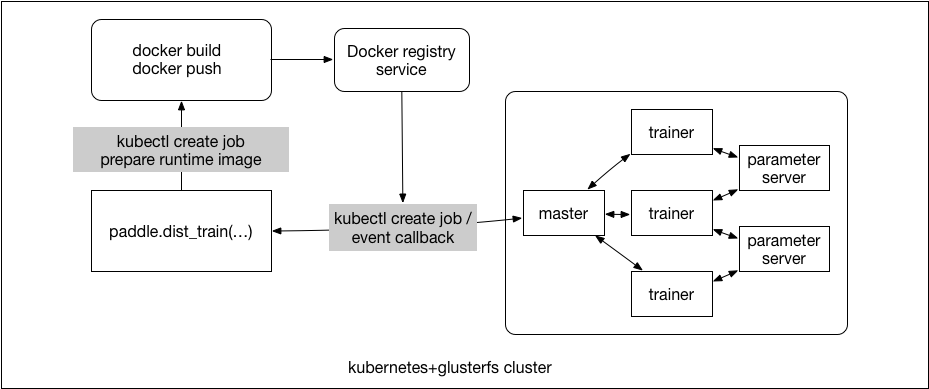
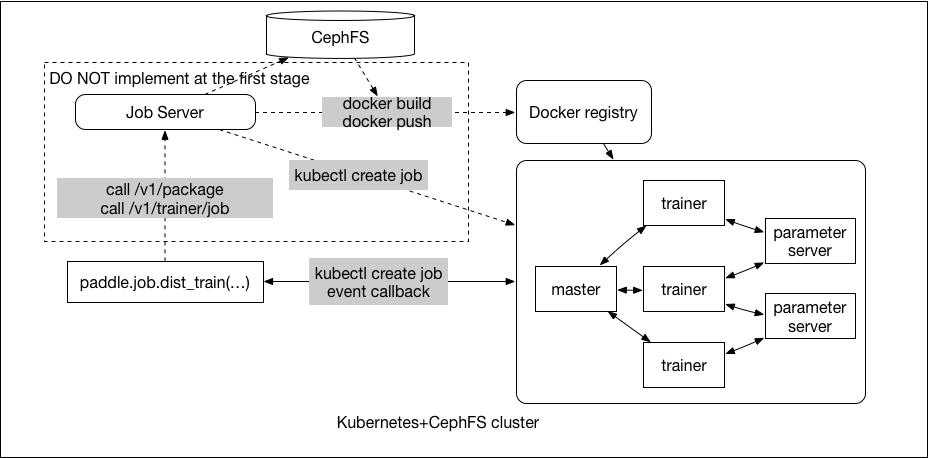
update

diff --git a/doc/design/cluster_train/submit-job.md b/doc/design/cluster_train/submit-job.md
@@ -15,7 +15,7 @@ For a distributed training job, there is two Docker image called *runtime Docker
 
 - Runtime Docker Image
 
-  The trainer package which user upload and some Python dependencies are packaged into a runtime Docker image based on base Docker image
+  The trainer package which user upload and some Python dependencies are packaged into a runtime Docker image based on base Docker image.
 
 - Python Dependencies
 
@@ -37,29 +37,32 @@ For a distributed training job, there is two Docker image called *runtime Docker
 
 ## Submit Distributed Training Job With Python Code
 <img src="./src/submit-job-python.png" width="800">
+- `paddle.job.dist_train()` will call the Job Server API `/v1/packages` to upload the trainer package and save them on CephFS, and then call `/v1/trainer/job` to submit the PaddlePaddle distributed job.
+- `/v1/trainer/job` will start a building job for preparing the runtime Docker image. When the building job is finished, Job Server will submit the PaddlePaddle distributed job to Kubernetes.
+- *NOTE*: The first stage, we only implement submit the PaddlePaddle job in `paddle.job.dist_train()`
 
-You can call `paddle.dist_train` and provide distributed training configuration as the parameters.
+You can call `paddle.job.dist_train` and provide distributed training configuration as the parameters:
 ```python
-paddle.dist_train(
+paddle.job.dist_train(
     trainer=paddle.trainer.SGD(...,
                               paddle.updater.Adam(...)),
     reader=reader,
     paddle_job=PaddleJob(
       job_name="quickstart",
-      pservers=4,
-      volume="quickstart",
+      use_gpu=True,
+      cpu_num=4,
+      gpu_num=2,
+      memory="1G"
       input=/quickstart/input,
       output=/quickstart/output,
-      base_image="paddlepaddle/paddle:0.10.rc2",
-      use_gpu=False,
-      memory="512M")
-    )
+      base_image="paddlepaddle/paddle:0.10.rc2")
 ```
 
-The pseudo code of `paddle.dist_train` is as follows:
+The pseudo code of `paddle.job.dist_train` is as follows:
 ```python
   def dist_train(trainer, reader, num_passes=1, event_handler=None, feeding=None, paddle_job=None):
-    if os.getenv("PADDLE_NOTEBOOK", "NO") == "YES":
+    # if the code is running on cloud, set PADDLE_ON_CLOUD=YES
+    if os.getenv("PADDLE_ON_CLOUD", "NO") == "NO":
       #submit the paddle job
       paddle_job.submit()
     else:
@@ -88,7 +91,8 @@ gpu_num|NO|1| if `use_gpu=true`, this parameter is required
 
 - RESTful API
 
-  Job server provides a RESTful HTTP server receives the trainer packages, list PaddlePaddle job etc...
+  Job server provides a RESTful HTTP API, receive the trainer package and display
+  PaddlePaddle job related informations.
   - `POST   /v1/package` receive the trainer package and save them on CephFS
   - `POST   /v1/trainer/job` submit a trainer job
   - `GET    /v1/jobs/` list all jobs
@@ -98,7 +102,7 @@ gpu_num|NO|1| if `use_gpu=true`, this parameter is required
 
 - Build Runtime Docker Image on Kubernetes
 
-  `paddle.dist_train` will upload the trainer package to Job Server and then save them on the distributed filesystem, and then start up a job for building the runtime Docker image, Parameter Server and Trainer will use this runtime Docker image.
+  `paddle.job.dist_train` will upload the trainer package to Job Server and then save them on the distributed filesystem, and then start up a job for building the runtime Docker image, Parameter Server and Trainer will use this runtime Docker image.
 
   There are some benefits for building runtime Docker image on JobServer:
   - **Docker in Docker** should mount `docker.sock` in the container and set `--privileged`, if the code running in a kubernetes pod, it's not safe.
